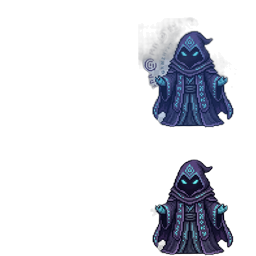
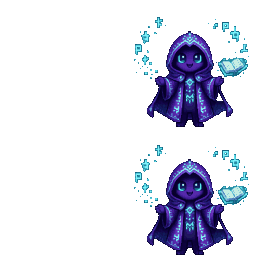
Greamíci 1.1: nové stádium 4 všech šesti ve stylu stádií 2–3 (původní v img/greamici/puvodni)

Changed region(s): [[0.5312, 0.0625, 0.9688, 0.5], [0.5312, 0.5625, 0.9688, 1.0], [0.7188, 0.0625, 0.75, 0.0938]]

diff --git a/img/greamici/puvodni/README.md b/img/greamici/puvodni/README.md
@@ -1,0 +1,3 @@
+Původní stádium 4 greamíků (do verze 1.0). Ve 1.1 nahrazeno novým stádiem 4 ve stylu stádií 2–3
+(bez zapečených pozadí, přátelské pro všechny věky). Ponecháno pro porovnání – nemazat.
+Zdroj nových (1024 px): Assety/greamici-1.1/ (OpenAI gpt-image-1.5, reference = stádium 3 + 2).
